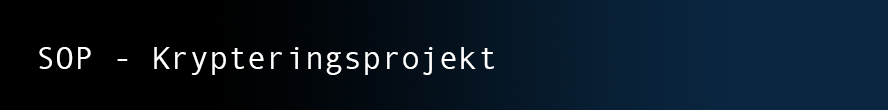
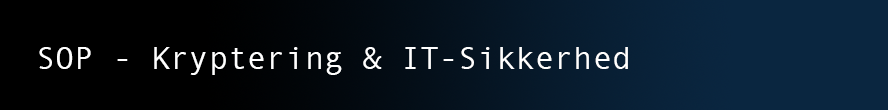
sop

Changed region(s): [[0.3649, 0.4091, 0.7297, 0.6818], [0.2128, 0.4636, 0.2432, 0.6818]]

diff --git a/Cæsar.html b/Cæsar.html
@@ -2,12 +2,12 @@
 <html>
 
 <head>
-    <title>Forside</title>
+    <title>Cæsar</title>
 
     <meta charset="UTF-8">
-    <meta name="keywords" content="Keywords, nøgleord for din side">
-    <meta name="description" content="Lav en beskrivelse af, hvad din side handlseer om">
-    <!-- Link til stylesheet responsive.css - det kan du ændre i -->
+    <!-- Google søgning, match-->
+    <meta name="description" content="Cæsar kryptering">
+    <!-- Her linkes til der css filen-->
     <link rel="stylesheet" type="text/css" href="responsive.css">
 </head>
 
@@ -18,7 +18,7 @@
         <div class="top">
             <img src="Billeder/sop.png" width="100%" height="100%" alt="" />
         </div>
-        <!-- Her indsættes menuen - bemærk, der er ingen links - du skal selv oprette sider! -->
+        <!-- Her indsættes menuen  -->
 
         <br>
         <br>
@@ -26,10 +26,6 @@
         <br>
         <br>
         <br>
-
-
-
-
 
         <div class="menu">
 
@@ -58,7 +54,7 @@
             <br>
 
 
-            <p>Dette login system er krypteret ved hjælp af cæsar kryptering</p>
+            <p>Krypter med cæsar ved at indtaste, din tekst i tekstfeltet</p>
 
             <br>
             <br>
@@ -67,18 +63,18 @@
             <br>
             <br>
 
-            Indsæt din tekst som du vil kryptere ind her: <input type="text" placeholder="Tekst" id="input" />
+            Indsæt din tekst som du vil kryptere ind her, og tryk på en af knapperne: <input type="text" placeholder="Tekst" id="input" />
             <input type="button" value="Krypter!" id="encrypt" />
             <input type="button" value="Dekrypter!" id="decrypt" />
             <p id="res"></p>
 
             <script>
 
-                const alfaRaw = "abcdefghijklmnopqrstuvwxyzæøå";
-                const alfa = alfaRaw.split("");
+                const alfaRaw = "abcdefghijklmnopqrstuvwxyzæøå"; //alfabetet 
+                const alfa = alfaRaw.split(""); // Laver array af alfabet
 
-                const alfaRawShift = "klmnopqrstuvwxyzæøåabcdefghij";
-                const alfaShift = alfaRawShift.split("");
+                const alfaRawShift = "klmnopqrstuvwxyzæøåabcdefghij"; // bogstavet flytter 10 gange til højre i alfabetet
+                const alfaShift = alfaRawShift.split("");// Laver array af omvendt alfabet
 
                 const input = document.getElementById("input");
                 const encrypt = document.getElementById("encrypt");
@@ -104,9 +100,9 @@
 
                 function ceaser(value, type) {
 
-                    let result = "";
+                    let result = ""; // resultat af kryptering/dekryptering
 
-                    for (let i = 0; i < value.length; i++) {
+                    for (let i = 0; i < value.length; i++) { // 
                         if (type == "encrypt") {
                             let index = alfa.indexOf(value[i]);
                             result += alfaShift[index];

diff --git a/Forside.html b/Forside.html
@@ -21,6 +21,9 @@
             <br>
             <br>
             <br>
+            <br>
+            <br>
+            <br>
             
             
            
@@ -47,23 +50,23 @@
                 <br>
                 <br>
 
-                <h1>Forside</h1> 
+                <h1>Kryptering & IT-Sikkerhed</h1> 
                     
                 <br>
                 <br>
-                
-            <img src="Billeder/spg.png"
-            height="50%" width="50%" >
-            
             
           
             <br><br>
             
-                <p>Forside</p>
+                <p>Formål med hjemmesiden:</p>
                 
                 <br>
                 
-                <p>Dette er forsiden</p>
+                <p>Denne hjemmeside, er del er SOP(Studieområdeprojektet), 
+                der omhandler kryptering og IT-sikkerhed for privatlivet. </p>
+
+                <p>Hjemmesiden formål er at kunne på bedst muligevis at kunne visualisere 
+                krypteringsalgoritmerne Cæsar kryptering og RSA-kryptering</p>
                 
                 <br><br>
                 

diff --git a/Kryptering.html b/Kryptering.html
@@ -2,7 +2,7 @@
 <html>
 
 <head>
-    <title>Forside</title>
+    <title>RSA</title>
 
     <meta charset="UTF-8">
     <meta name="keywords" content="Keywords, nøgleord for din side">
@@ -60,7 +60,7 @@
             <br>
 
 
-            <p>Dette login system er krypteret ved hjælp af RSA kryptering</p>
+            <p>Krypter med RSA-kryptering ved at indtaste, din tekst i tekstfeltet</p>
 
             <br>
             <br>
@@ -69,7 +69,7 @@
             <br>
             <br>
 
-            Indsæt din tekst som du vil kryptere ind her: <input type="password" placeholder="Skriv her"
+            Indsæt din tekst som du vil kryptere ind her og tryk enter,eller tryk ude fra feltet: <input type="password" placeholder="Skriv her"
                 onchange="codeFunction(this.value)">
 
             Detrypter koden: <input type="text" placeholder="Skriv her" onchange="decryptFunction(this.value)">
